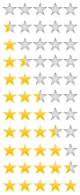
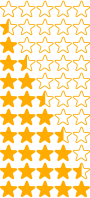
BIRUTE:    - rating stars formatas padarytas pagal sablona;    - grid scroler padarytas pagal sablona (liko pora niuansu);    Is mano dalies liko: 	- Scroller: tarpelis tarp jo ir knygu + jo storis (pixel perfect); 	- Galutinis formatavimas tarp daliu (suskaiciuoti tikslu atitikima pikseliais): 		- 

diff --git a/index.html b/index.html
@@ -31,98 +31,102 @@
                 </div>
             </div>
             <div class="books">
-                <div class="books_grid-container books_scroll-area">
-                    <div class="books_box">
-                        <img src="IMG/books_book_01.jpg" alt="book">
-                        <h3>Book name</h3>
-                        <p>by Author Name</p>
-                        <span class="books_rating-static books_rating-50"></span>
-                    </div>
-                    <div class="books_box">
-                        <img src="IMG/books_book_02.jpg" alt="book">
-                        <h3>Book name</h3>
-                        <p>by Author Name</p>
-                        <span class="books_rating-static books_rating-50"></span>
-                    </div>
-                    <div class="books_box">
-                        <img src="IMG/books_book_03.jpg" alt="book">
-                        <h3>Book name</h3>
-                        <p>by Author Name</p>
-                        <span class="books_rating-static books_rating-45"></span>
-                    </div>
-                    <div class="books_box">
-                        <img src="IMG/books_book_04.jpg" alt="book">
-                        <h3>Book name</h3>
-                        <p>by Author Name</p>
-                        <span class="books_rating-static books_rating-40"></span>
-                    </div>
-                    <div class="books_box">
-                        <img src="IMG/books_book_05.jpg" alt="book">
-                        <h3>Book name</h3>
-                        <p>by Author Name</p>
-                        <span class="books_rating-static books_rating-45"></span>
-                    </div>
-                    <div class="books_box">
-                        <img src="IMG/books_book_01.jpg" alt="book">
-                        <h3>Book name</h3>
-                        <p>by Author Name</p>
-                        <span class="books_rating-static books_rating-40"></span>
-                    </div>
-                    <div class="books_box">
-                        <img src="IMG/books_book_02.jpg" alt="book">
-                        <h3>Book name</h3>
-                        <p>by Author Name</p>
-                        <span class="books_rating-static books_rating-50"></span>
-                    </div>
-                    <div class="books_box">
-                        <img src="IMG/books_book_03.jpg" alt="book">
-                        <h3>Book name</h3>
-                        <p>by Author Name</p>
-                        <span class="books_rating-static books_rating-40"></span>
-                    </div>
-                    <div class="books_box">
-                        <img src="IMG/books_book_04.jpg" alt="book">
-                        <h3>Book name</h3>
-                        <p>by Author Name</p>
-                        <span class="books_rating-static books_rating-50"></span>
-                    </div>
-                    <div class="books_box">
-                        <img src="IMG/books_book_05.jpg" alt="book">
-                        <h3>Book name</h3>
-                        <p>by Author Name</p>
-                        <span class="books_rating-static books_rating-35"></span>
-                    </div>
-                    <div class="books_box">
-                        <img src="IMG/books_book_01.jpg" alt="book">
-                        <h3>Book name</h3>
-                        <p>by Author Name</p>
-                        <span class="books_rating-static books_rating-0"></span>
-                    </div>
-                    <div class="books_box">
-                        <img src="IMG/books_book_02.jpg" alt="book">
-                        <h3>Book name</h3>
-                        <p>by Author Name</p>
-                        <span class="books_rating-static books_rating-0"></span>
-                    </div>
-                    <div class="books_box">
-                        <img src="IMG/books_book_03.jpg" alt="book">
-                        <h3>Book name</h3>
-                        <p>by Author Name</p>
-                        <span class="books_rating-static books_rating-0"></span>
-                    </div>
-                    <div class="books_box">
-                        <img src="IMG/books_book_04.jpg" alt="book">
-                        <h3>Book name</h3>
-                        <p>by Author Name</p>
-                        <span class="books_rating-static books_rating-0"></span>
-                    </div>
-                    <div class="books_box">
-                        <img src="IMG/books_book_05.jpg" alt="book">
-                        <h3>Book name</h3>
-                        <p>by Author Name</p>
-                        <span class="books_rating-static books_rating-0"></span>
+                <div class="books_area">
+                    <div class="books_grid-container books_scrollbar" id="books_scrollbar-style">
+                        <div class="books_box">
+                            <img src="IMG/books_book_01.jpg" alt="book">
+                            <h3>Book name</h3>
+                            <p>by Author Name</p>
+                            <span class="books_rating-static books_rating-50"></span>
+                        </div>
+                        <div class="books_box">
+                            <img src="IMG/books_book_02.jpg" alt="book">
+                            <h3>Book name</h3>
+                            <p>by Author Name</p>
+                            <span class="books_rating-static books_rating-50"></span>
+                        </div>
+                        <div class="books_box">
+                            <img src="IMG/books_book_03.jpg" alt="book">
+                            <h3>Book name</h3>
+                            <p>by Author Name</p>
+                            <span class="books_rating-static books_rating-45"></span>
+                        </div>
+                        <div class="books_box">
+                            <img src="IMG/books_book_04.jpg" alt="book">
+                            <h3>Book name</h3>
+                            <p>by Author Name</p>
+                            <span class="books_rating-static books_rating-40"></span>
+                        </div>
+                        <div class="books_box">
+                            <img src="IMG/books_book_05.jpg" alt="book">
+                            <h3>Book name</h3>
+                            <p>by Author Name</p>
+                            <span class="books_rating-static books_rating-45"></span>
+                        </div>
+                        <div class="books_box">
+                            <img src="IMG/books_book_06.jpg" alt="book">
+                            <h3>Book name</h3>
+                            <p>by Author Name</p>
+                            <span class="books_rating-static books_rating-45"></span>
+                        </div>
+                        <div class="books_box">
+                            <img src="IMG/books_book_07.jpg" alt="book">
+                            <h3>Book name</h3>
+                            <p>by Author Name</p>
+                            <span class="books_rating-static books_rating-40"></span>
+                        </div>
+                        <div class="books_box">
+                            <img src="IMG/books_book_08.jpg" alt="book">
+                            <h3>Book name</h3>
+                            <p>by Author Name</p>
+                            <span class="books_rating-static books_rating-35"></span>
+                        </div>
+                        <div class="books_box">
+                            <img src="IMG/books_book_09.jpg" alt="book">
+                            <h3>Book name</h3>
+                            <p>by Author Name</p>
+                            <span class="books_rating-static books_rating-30"></span>
+                        </div>
+                        <div class="books_box">
+                            <img src="IMG/books_book_10.jpg" alt="book">
+                            <h3>Book name</h3>
+                            <p>by Author Name</p>
+                            <span class="books_rating-static books_rating-25"></span>
+                        </div>
+                        <div class="books_box">
+                            <img src="IMG/books_book_05.jpg" alt="book">
+                            <h3>Book name</h3>
+                            <p>by Author Name</p>
+                            <span class="books_rating-static books_rating-20"></span>
+                        </div>
+                        <div class="books_box">
+                            <img src="IMG/books_book_03.jpg" alt="book">
+                            <h3>Book name</h3>
+                            <p>by Author Name</p>
+                            <span class="books_rating-static books_rating-15"></span>
+                        </div>
+                        <div class="books_box">
+                            <img src="IMG/books_book_02.jpg" alt="book">
+                            <h3>Book name</h3>
+                            <p>by Author Name</p>
+                            <span class="books_rating-static books_rating-10"></span>
+                        </div>
+                        <div class="books_box">
+                            <img src="IMG/books_book_01.jpg" alt="book">
+                            <h3>Book name</h3>
+                            <p>by Author Name</p>
+                            <span class="books_rating-static books_rating-5"></span>
+                        </div>
+                        <div class="books_box">
+                            <img src="IMG/books_book_05.jpg" alt="book">
+                            <h3>Book name</h3>
+                            <p>by Author Name</p>
+                            <span class="books_rating-static books_rating-0"></span>
+                        </div>
                     </div>
                 </div>
+
+
             </div>
         </section>
         <footer>

diff --git a/CSS/style_index.css b/CSS/style_index.css
@@ -114,28 +114,46 @@ section {
 }
 
 /*bp: pagrindinis konteiners*/
-
-.books_grid-container {
-    display: grid;
-    grid-template-columns: repeat(5, 1fr);
-    grid-auto-rows: 380px;
-    grid-gap: 15px;
-    /*BP!!!!!!!!!1 PAZIURETI, kokie tiksliai tarpai tarp grido*/
+/*BP!!!!!!!!! PAZIURETI, kokie tiksliai tarpai tarp grido*/
+.books_area{
     padding-top: 20px;
     padding-bottom: 20px;
     padding-left: 15px;
     padding-right: 15px;
-
-    font-family: Arial;
-    /*pakišti prie bendro*/
-    font-size: 14px;
-    /*pakišti prie bendro*/
 }
 
-.books_scroll-area {
+
+/*BP!!!!!!!!! PAZIURETI, kokie tiksliai tarpai tarp grido*/
+.books_grid-container {
+    display: grid;
+    grid-template-columns: repeat(5, 1fr);
+    grid-auto-rows: 360px;
+    grid-gap: 15px;
+    
+/*BENDRAI!!!!!!!!! pakišti prie bendro teksto nustatymus*/
+    font-family: Arial;
+    font-size: 14px;
+}
+
+.books_scrollbar {
     overflow-y: scroll;
     max-height: 730px;
 }
+
+#books_scrollbar-style::-webkit-scrollbar{
+	width: 10px;
+	background-color: #ffffff;
+}
+#books_scrollbar-style::-webkit-scrollbar-thumb{
+    /*bp:parinkta su color droperiu ir color pickeriu*/
+	background-color: #ccd5e4;
+    border-radius: 4px;
+}
+
+.books_scroll-barstyle::-webkit-scrollbar-track{
+	background-color: #ffffff;
+}
+
 
 /*bp: 1 knygos erdve*/
 
@@ -152,22 +170,24 @@ section {
 }
 
 .books h3 {
-    padding-top: 15px;
+    padding-top: 13px;
     margin: 0;
     color: #444c63;
     /*bp:parinkta su color droperiu ir color pickeriu*/
 }
 
 .books p {
-    padding-top: 10px;
-    padding-bottom: 10px;
+    padding-top: 7px;
+    padding-bottom: 2px;
     margin: 0;
     color: #6f7d95;
 }
 
+/*bp: rating skale*/
+
 .books_rating-static {
-    width: 80px;
-    height: 20px;
+    width: 90px;
+    height: 18px;
     display: block;
     background: url(../IMG/books_ratingStars.png);
 }
@@ -177,43 +197,43 @@ section {
 }
 
 .books_rating-5 {
-    background-position: 0 -17px;
+    background-position: 0 -18px;
 }
 
 .books_rating-10 {
-    background-position: 0 -34px;
+    background-position: 0 -36px;
 }
 
 .books_rating-15 {
-    background-position: 0 -51px;
+    background-position: 0 -54px;
 }
 
 .books_rating-20 {
-    background-position: 0 -69px;
+    background-position: 0 -72px;
 }
 
 .books_rating-25 {
-    background-position: 0 -86px;
+    background-position: 0 -90px;
 }
 
 .books_rating-30 {
-    background-position: 0 -104px;
+    background-position: 0 -108px;
 }
 
 .books_rating-35 {
-    background-position: 0 -122px;
+    background-position: 0 -126px;
 }
 
 .books_rating-40 {
-    background-position: 0 -140px;
+    background-position: 0 -144px;
 }
 
 .books_rating-45 {
-    background-position: 0 -157px;
+    background-position: 0 -162px;
 }
 
 .books_rating-50 {
-    background-position: 0 -175px;
+    background-position: 0 -180px;
 }
 
 
